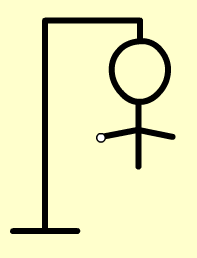
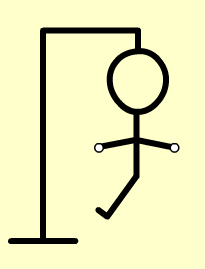
HTML

Changed region(s): [[0.0305, 0.062, 0.9137, 0.9302]]

diff --git a/Hangman.html b/Hangman.html
@@ -1,13 +1,24 @@
 <!DOCTYPE html>
 <html>
   <head>
+    <link rel="stylesheet" type="text/css" href="Hangman.css">
     <meta charset="utf-8">
     <title> Hangman </title>
   </head>
   <body>
-    <h1> HANGMAN </h1>
-    <h1> NEW GAME </h1>
-    <img src="stage1.png"></img>
-
+    <h1 class = "title"> HANGMAN </h1>
+    <h4 class = "challenge" id = "challengeone"> CHALLENGE 1 </h2>
+    <h4 class = "challenge" id = "challengetwo"> CHALLENGE 2 </h2>
+    <h4 class = "challenge" id = "challengethree"> CHALLENGE 3 </h2>
+    <h4 class = "challenge" id = "challengefour"> CHALLENGE 4 </h2>
+    <h4 class = "challenge" id = "challengefive"> CHALLENGE 5 </h2>
+    <img class = "picture1" src="stage7.png"></img>
+    <img class = "picture" src="stage2.png"></img>
+    <img class = "picture" src="stage3.png"></img>
+    <img class = "picture" src="stage4.png"></img>
+    <img class = "picture" src="stage5.png"></img>
+    <img class = "picture" src="stage6.png"></img>
+    <img class = "picture" src="stage7.png"></img>
+    <h1 class = "solution"> SOLUTION </h1>
   </body>
 </html>

diff --git a/Hangman.css b/Hangman.css
@@ -1,0 +1,29 @@
+.title {
+  text-align: center;
+}
+
+#challengeone {
+  display: inline;
+  text-align: center;
+  padding-left: 70px;
+}
+
+.challenge {
+  display: inline;
+  text-align: center;
+  padding-left: 140px;
+}
+
+.picture1 {
+  padding-top: 100px;
+  padding-left: 100px;
+}
+
+.picture {
+  display: none;
+}
+
+.solution {
+  text-align: center;
+  padding-top: 100px;
+}
